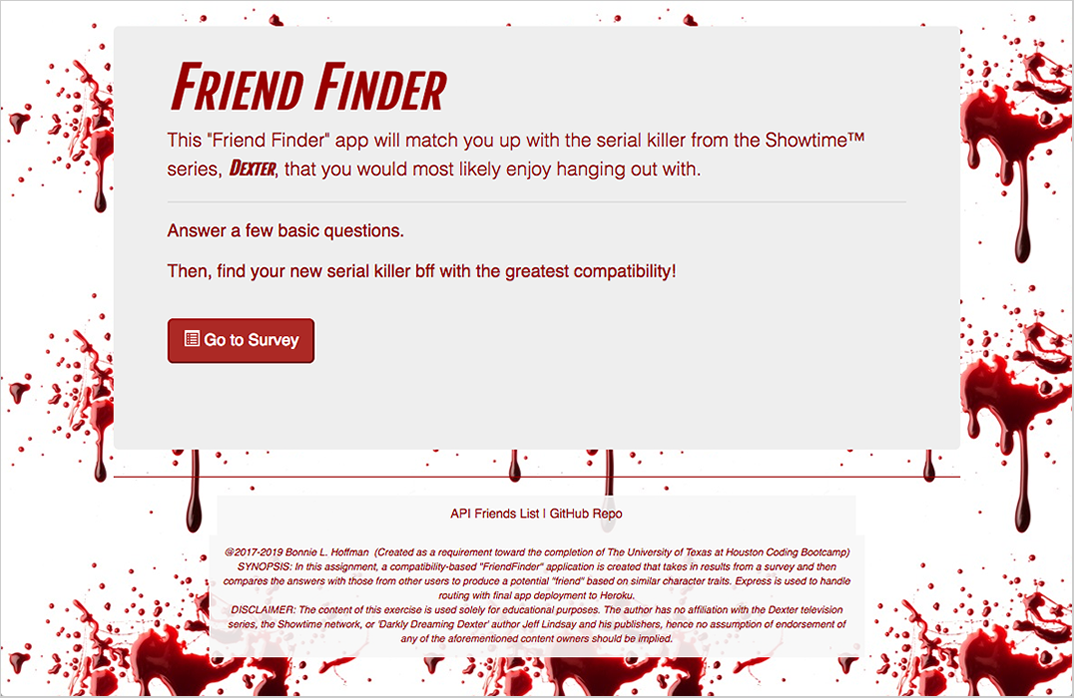
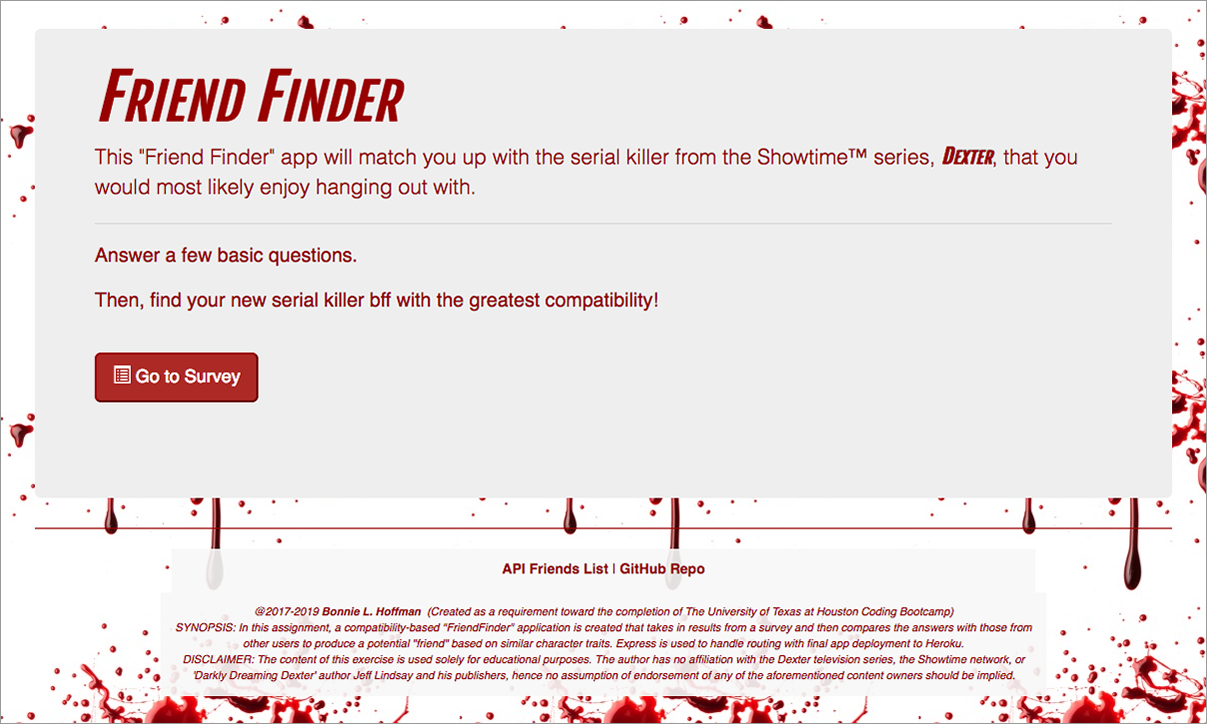
README updates + new styles

diff --git a/app/public/survey.html b/app/public/survey.html
@@ -81,7 +81,7 @@
 		      		<div class="col-sm-12 col-md-6 col-lg-6">
 
 						<h3 class="ital">Question 2</h3>
-						<h4>How loyal are you to the people you care about?</h4>
+						<h4>Are you loyal to the people you care about?</h4>
 					 	<select data-placeholder="" class="chosen-select" id="q2">
 				 			<option value="">Select an Option</option>
 			            	<option value="5">5 (Strongly Agree)</option>
@@ -101,7 +101,8 @@
 				<div class="col-sm-12 col-md-6 col-lg-6">
 
 					<h3 class="ital">Question 3</h3>
-					<h4>How strongly are you drawn to science?</h4>
+					<!-- <h4>How strongly are you drawn to science?</h4> -->
+					<h4>Are you detail-oriented?</h4>
 			 		<select data-placeholder="" class="chosen-select" id="q3">
 						<option value="">Select an Option</option>
 			        	<option value="5">5 (Strongly Agree)</option>
@@ -169,7 +170,7 @@
 	      		<div class="col-sm-12 col-md-6 col-lg-6">
 
 					<h3 class="ital">Question 7</h3>
-					<h4>How outgoing are you?</h4>
+					<h4>Are you outgoing?</h4>
 			 		<select data-placeholder="" class="chosen-select" id="q7">
 						<option value="">Select an Option</option>
 			        	<option value="5">5 (Strongly Agree)</option>
@@ -199,12 +200,12 @@
 			<!-- END row -->
 	      	</div>
 
-	      	<div class="row">
+	      	<div class="row marg">
 
 	      		<div class="col-sm-12 col-md-6 col-lg-6">
 
 					<h3 class="ital">Question 9</h3>
-					<h4>How patient are you?</h4>
+					<h4>Are you a patient person?</h4>
 			 		<select data-placeholder="" class="chosen-select" id="q9">
 						<option value="">Select an Option</option>
 			        	<option value="5">5 (Strongly Agree)</option>
@@ -219,7 +220,7 @@
 		      	<div class="col-sm-12 col-md-6 col-lg-6">
 
 					<h3 class="ital">Question 10</h3>
-					<h4>How vindictive are you?</h4>
+					<h4>Do you consider yourself to be vindictive?</h4>
 			 		<select data-placeholder="" class="chosen-select" id="q10">
 						<option value="">Select an Option</option>
 			        	<option value="5">5 (Strongly Agree)</option>
@@ -238,9 +239,9 @@
 			<br />
 			<br />
 			
-			<div class="row">
-				<div class="col-sm-1 col-md-1 col-lg-2"></div>
-				<div class="col-sm-10 col-md-10 col-lg-8">
+			<div class="row marg">
+				<!-- <div class="col-sm-1 col-md-1 col-lg-2"></div> -->
+				<div class="col-sm-10 col-sm-offset-1 col-md-10 col-md-offset-1 col-lg-8 col-lg-offset-2">
 					<!-- Submit Button -->
 					<button type="submit" class="btn-danger btn-primary btn-lg btn-block" id="submit"><i class="fa fa-check-circle" aria-hidden="true"></i> Submit</button>
 				</div>

diff --git a/app/public/css/local_styles.css b/app/public/css/local_styles.css
@@ -57,6 +57,10 @@ button {
 	margin-bottom: 4em;
 }
 
+.marg {
+	margin-bottom: 2em;
+}
+
 .jumbotron {
 	margin-top: 2em;
 	padding: 1em;
@@ -133,11 +137,13 @@ footer p {
 
 footer a:link {
 	color: #900;
+	font-weight: bold;
 	text-decoration: none;
 }
 
 footer a:visited {
 	color: #900;
+	font-weight: bold;
 	text-decoration: none;
 }
 

diff --git a/app/data/friends.js b/app/data/friends.js
@@ -4,7 +4,7 @@ module.exports =
   "name":"Dexter Morgan",
   "photo":"http://youkidsgetoffmylawn.org/dexter_images/Dexter_Morgan.png",
   "scores":[
-    5, 4, 5, 0, 5, 1, 0, 0, 5, 3
+    5, 3, 5, 1, 5, 1, 0, 0, 5, 3
     ],
   "bio":"[Seasons 1-8 (all)]<br /> 28 organized"
 },

diff --git a/README.md b/README.md
@@ -178,7 +178,7 @@ This modal displays both the name and picture of the closest match, as well as a
 
 ### In case you're interested...
 
-Again, you can interact with this application in real-time at the following address:\n
+Again, you can interact with this application in real-time at the following address:
 [https://dexter-friend-finder.herokuapp.com/](https://dexter-friend-finder.herokuapp.com/), however, if you'd prefer to kick the tires on your local machine, keep reading.
 
 
